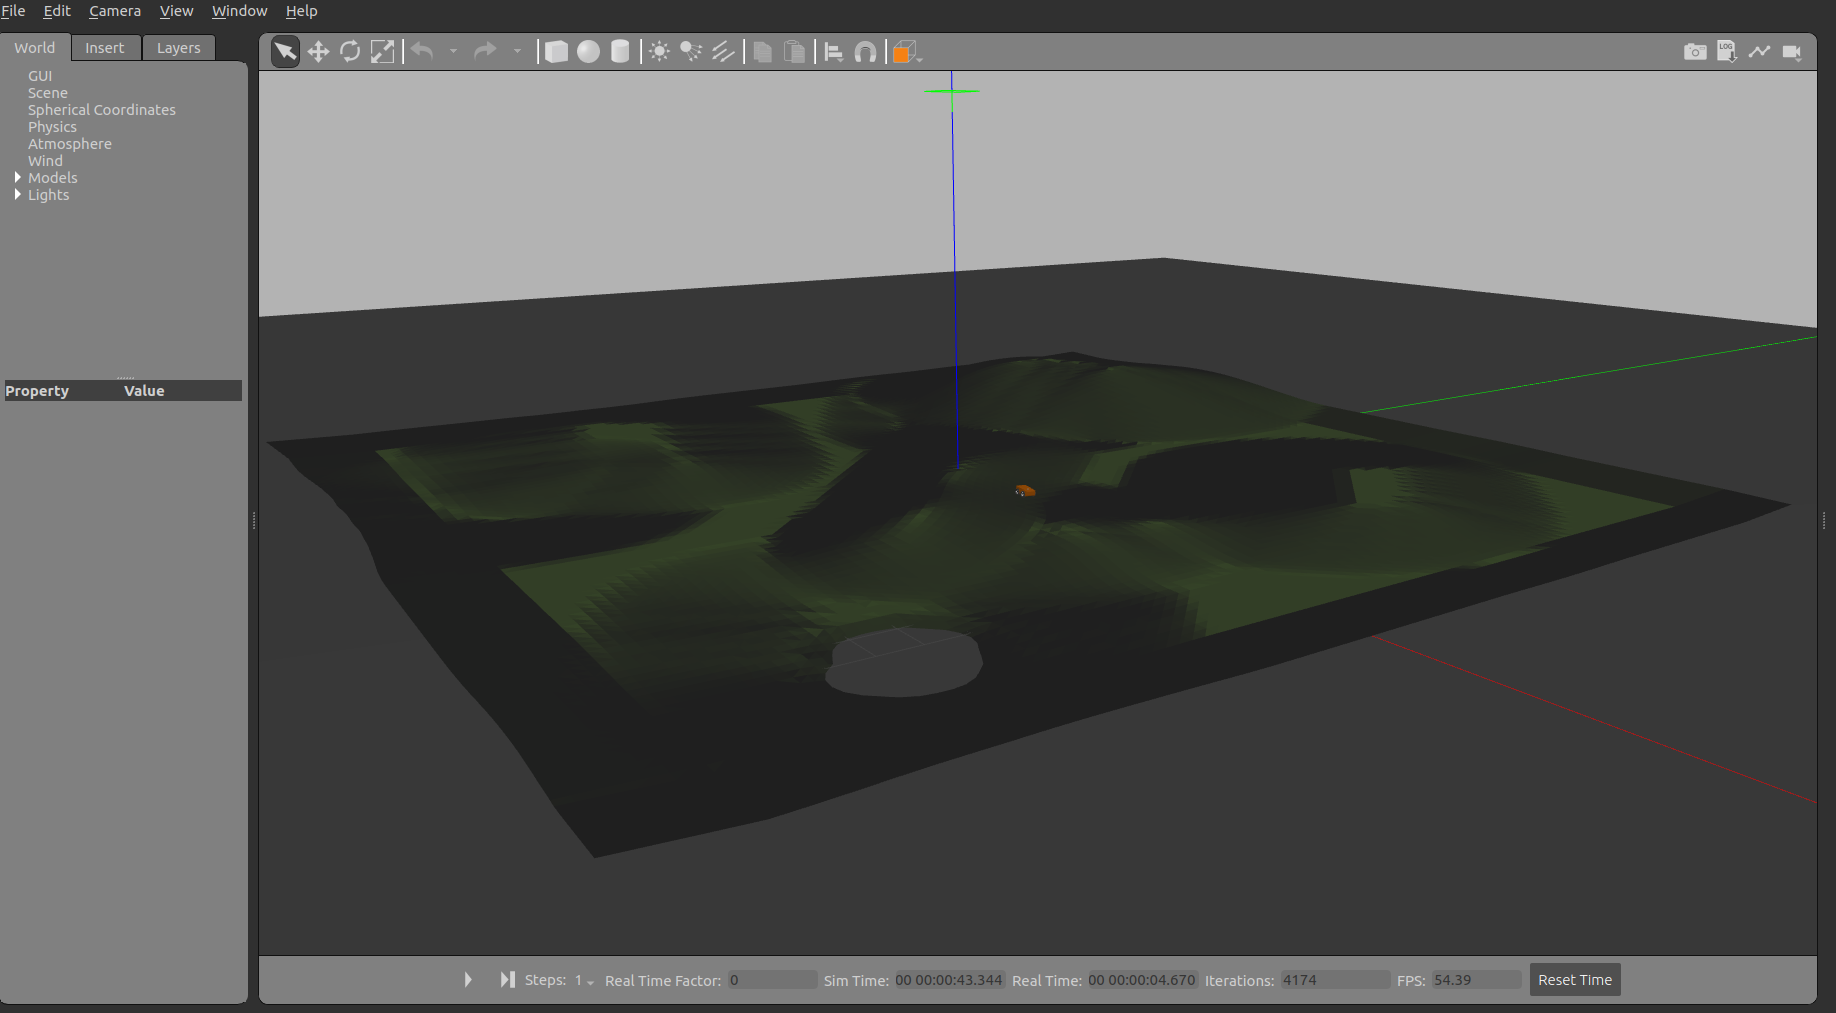
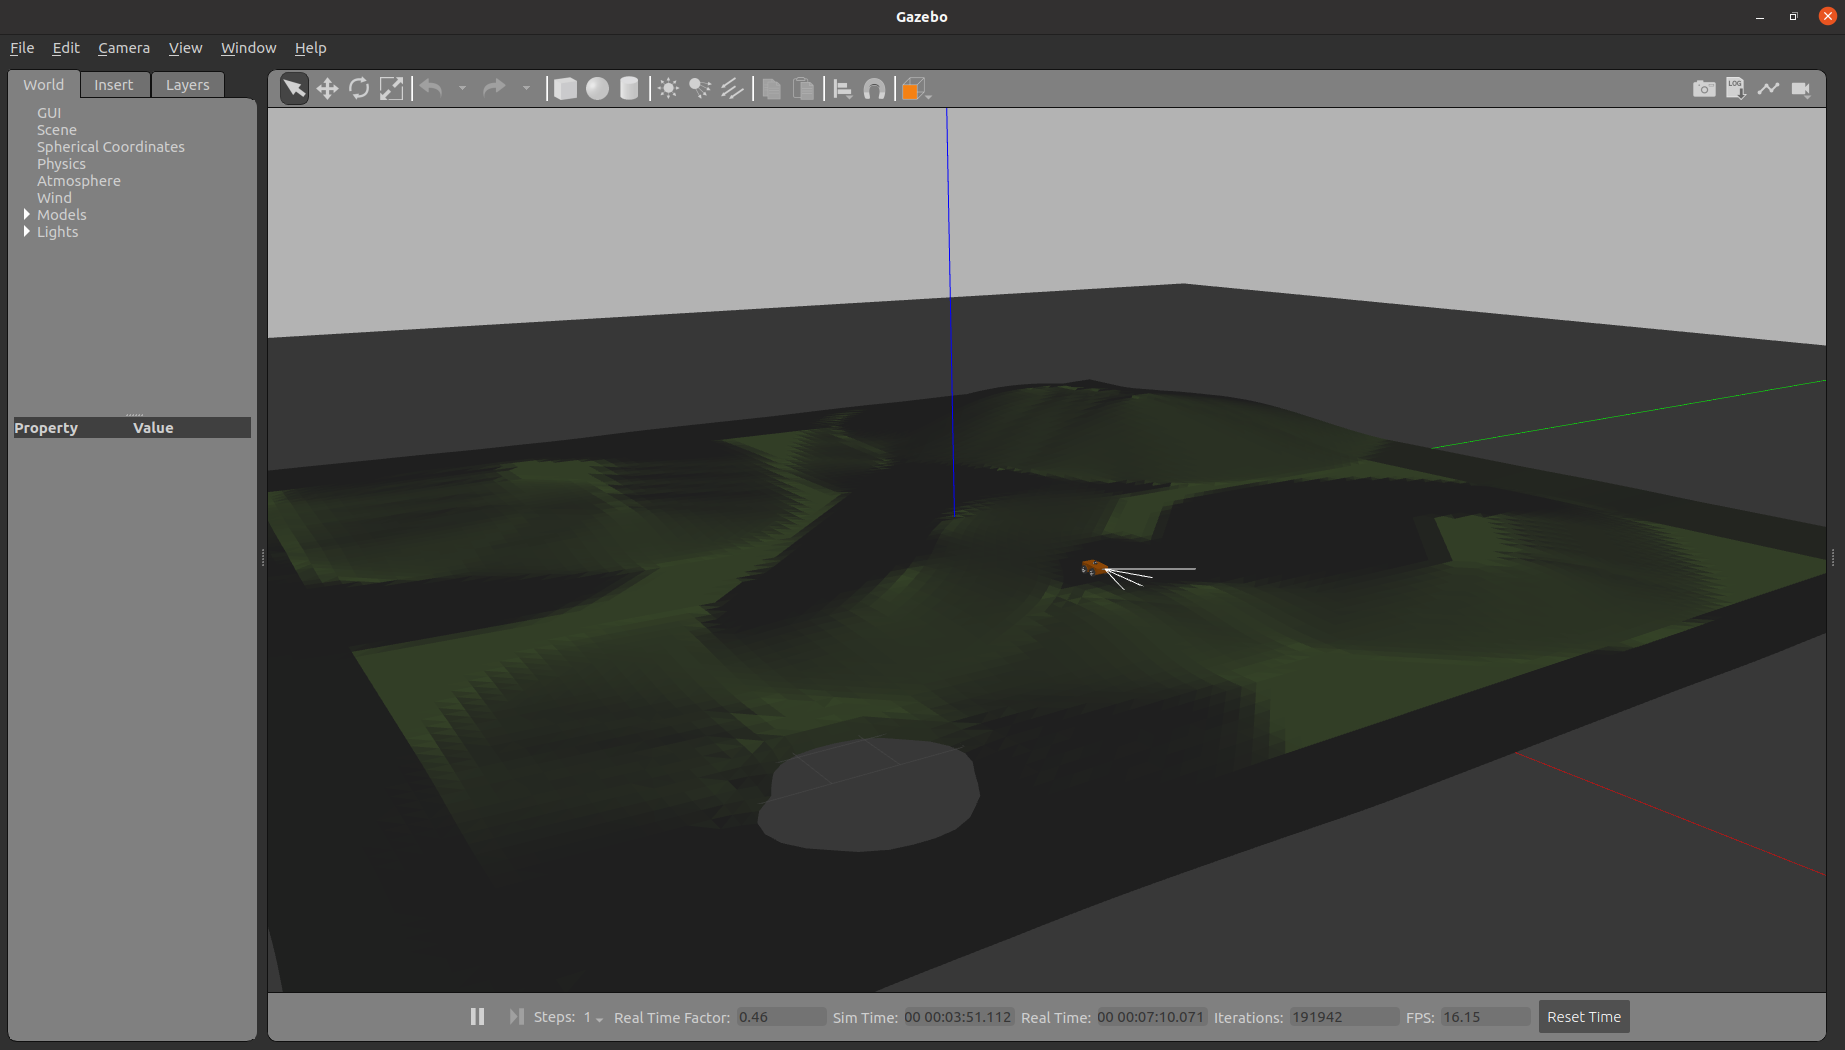
add D435

diff --git a/README.md b/README.md
@@ -4,7 +4,7 @@
 
 * ```mpc_follower```：使用MPC建立的planner和controller；发布参考轨迹。
 
-* ```skid4wd_description```：主要用于搭建Gazebo环境中的车辆模型和环境模型，并处理里程计信息。车辆模型中包含两种传感器：IMU和三维激光雷达(Livox Mid360 Lidar)，但控制过程中用到的里程计信息是Gazebo中模型的位置和姿态。环境模型采用Blender进行建立，对应Blender文件在```skid4wd_description/urdf/terrain.blend```。
+* ```skid4wd_description```：主要用于搭建Gazebo环境中的车辆模型和环境模型，并处理里程计信息。车辆模型中包含两种传感器：IMU,二维激光雷达和Intel D435深度相机，但控制过程中用到的里程计信息是Gazebo中模型的位置和姿态。环境模型采用Blender进行建立，对应Blender文件在```skid4wd_description/urdf/terrain.blend```。
 
 ![rviz显示效果](./figure/rviz.png)
 
